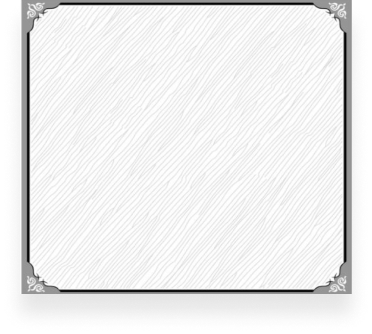
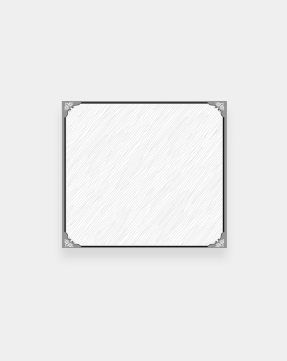
A few changes to the "Best Seller" section such as image size and responsive them

Changed region(s): [[0.0557, 0.0, 0.9477, 0.8982], [0.1951, 0.2695, 0.8084, 0.7186]]

diff --git a/index.html b/index.html
@@ -186,7 +186,7 @@
             <div class="col-xl-12 pt-3">
              <h6>شرایط فعلی تکنولوژی مورد نیاز و کاربردهای متنوع کاربردی می باشد</h6>
 
-             <p>کتابهای زیادی در شصت و سه درصد گذشته، حال و آینده شناخت فراوان جامعه و متخصصان را می طلبد تا با نرم افزارهاکتابهای زیادی در شصت و سه درصد گذشته، حال و آینده شناخت فراوان جامعه و متخصصان را می طلبد .</p>
+             <p class="pt-1">کتابهای زیادی در شصت و سه درصد گذشته، حال و آینده شناخت فراوان جامعه و متخصصان را می طلبد تا با نرم افزارهاکتابهای زیادی در شصت و سه درصد گذشته، حال و آینده شناخت فراوان جامعه و متخصصان را می طلبد .</p>
             </div>
           </div>
           <div class="col-xl-8">
@@ -197,10 +197,10 @@
 
         <!-------------------- product section here --------------------->
         <section class="d-flex flex-column justify-content-center my-5 product">
-          <div class="row">
-            <h2 class="d-flex justify-content-center">دسته بندی محصولات آذران پلاستیک</h2>
-            <h3 class="d-flex justify-content-center">دسته بندی محصولات آذران پلاستیک</h3>
-            <p class="d-flex justify-content-center">لورم ایپسوم متن ساختگی با تولید سادگی نامفهوم از صنعت چاپ و با استفاده از طراحان گرافیک است. چاپگرها و متون بلکه روزنامه و مجله</p>
+          <div class="row pt-5 justify-content-center">
+            <h2 class="d-flex justify-content-center pb-3">دسته بندی محصولات آذران پلاستیک</h2>
+            <h3 class="d-flex justify-content-center pb-2">دسته بندی محصولات آذران پلاستیک</h3>
+            <p class="d-flex w-50 text-center">لورم ایپسوم متن ساختگی با تولید سادگی نامفهوم از صنعت چاپ و با استفاده از طراحان گرافیک است. چاپگرها و متون بلکه روزنامه و مجله</p>
           </div>
 
           <div class="row py-5 bg2">
@@ -232,14 +232,14 @@
             </div>
             <div class="col-xl-4">
               
-              <h3 class="pt-5 pb-2">لورم ایپسوم متن ساختگی</h3>
+              <h3 class="pt-4 pb-3">لورم ایپسوم متن ساختگی</h3>
   
               <h6 class="pb-2">شرایط فعلی تکنولوژی مورد نیاز و کاربردهای متنوع کاربردی می باشد</h6>
 
-              <p>لورم ایپسوم متن ساختگی با تولید سادگی نامفهوم از صنعت چاپ و با استفاده از طراحان گرافیک است. چاپگرها و متون بلکه روزنامه و مجله در ستون و سطرآنچنان که لازم است و برای شرایط فعلی تکنولوژی مورد نیاز و کاربردهای متنوع با هدف بهبود ابزارهای کاربردی می باشد.
+              <p class="py-2">لورم ایپسوم متن ساختگی با تولید سادگی نامفهوم از صنعت چاپ و با استفاده از طراحان گرافیک است. چاپگرها و متون بلکه روزنامه و مجله در ستون و سطرآنچنان که لازم است و برای شرایط فعلی تکنولوژی مورد نیاز و کاربردهای متنوع با هدف بهبود ابزارهای کاربردی می باشد.
               بیشتری را برای طراحان رایانه ای علی الخصوص طراحان خلاقی و فرهنگ پیشرو در زبان فارسی ایجاد کرد.</p>
-              <button class="btn btn-outline-danger rounded-pill mx-1 sabtn-nav px-4 py-2">
-                <span class="d-inline px-2 color">اطلاعات بیشتر</span> 
+              <button class="btn btn-outline-danger rounded-pill mx-1 px-4 py-2">
+                <span class="d-inline px-2 information">اطلاعات بیشتر</span> 
               </button>
 
             </div>
@@ -251,39 +251,31 @@
         <!-------------------- Best-selling section here --------------------->
         <section class="d-flex flex-column justify-content-center my-5 container Best-selling">
 
-          <div class="row">
-            <h2 class="d-flex justify-content-center">محصولات پرفروش</h2>
-            <h3 class="d-flex justify-content-center">محصولات پرفروش</h3>
-            <p class="d-flex justify-content-center">لورم ایپسوم متن ساختگی با تولید سادگی نامفهوم از صنعت چاپ و با استفاده از طراحان گرافیک است. چاپگرها و متون بلکه روزنامه و مجله</p>
+          <div class="row justify-content-center">
+            <h2 class="d-flex justify-content-center pb-3">محصولات پرفروش</h2>
+            <h3 class="d-flex justify-content-center pb-2">محصولات پرفروش</h3>
+            <p class="d-flex w-50 text-center">لورم ایپسوم متن ساختگی با تولید سادگی نامفهوم از صنعت چاپ و با استفاده از طراحان گرافیک است. چاپگرها و متون بلکه روزنامه و مجله</p>
           </div>
           
-          <div class="row py-5">
-            <div class="col pic-best1">
-              <div class="p-3 bg-light">
-                <img class="img-fluid pb-5 pt-5 px-2" src="images/patern.png" alt="Best-selling">
-              </div>
-              <h6 class="pt-3">ایپسوم متن ساختگی با تولید |  DF-14416a</h6>
+          <div class="row py-5 g-5">
+            <div class="col-xl-3 col-md-6 col-sm-12 px-0">
+              <img class="img-fluid" src="images/patern.png" alt="Best-selling">
+              <h6 class="pt-3 d-flex justify-content-center">ایپسوم متن ساختگی با تولید |  DF-14416a</h6>
             </div>
 
-            <div class="col">
-              <div class="bg-light">
-                <img class="img-fluid" src="images/patern2.png" alt="Best-selling">
-              </div>
-              <h6 class="pt-3">ایپسوم متن ساختگی با تولید | DF-00226a</h6>
+            <div class="col-xl-3 col-md-6 col-sm-12 px-0">
+              <img class="img-fluid" src="images/patern2.png" alt="Best-selling">
+              <h6 class="pt-3 d-flex justify-content-center">ایپسوم متن ساختگی با تولید | DF-00226a</h6>
             </div>
 
-            <div class="col">
-              <div class="p-3 bg-light">
-                <img class="img-fluid pb-5 pt-5 px-2" src="images/patern3.png" alt="Best-selling">
-              </div>
-              <h6 class="pt-3">ایپسوم متن ساختگی با تولید |  DF-14416a</h6>
+            <div class="col-xl-3 col-md-6 col-sm-12 px-0">
+              <img class="img-fluid" src="images/patern3.png" alt="Best-selling">
+              <h6 class="pt-3 d-flex justify-content-center">ایپسوم متن ساختگی با تولید |  DF-14416a</h6>
             </div>
 
-            <div class="col">
-              <div class="p-3 bg-light pic-best4">
-                <img class="img-fluid pb-5 pt-5 px-2" src="images/patern4.png" alt="Best-selling">
-              </div>
-              <h6 class="pt-3">ایپسوم متن ساختگی با تولید |  DF-14416a</h6>
+            <div class="col-xl-3 col-md-6 col-sm-12 px-0">
+              <img class="img-fluid" src="images/patern4.png" alt="Best-selling">
+              <h6 class="pt-3 d-flex justify-content-center">ایپسوم متن ساختگی با تولید |  DF-14416a</h6>
             </div>
 
           </div>
@@ -361,17 +353,17 @@
 
       <!-------------------- article here --------------------->
       <div class="container d-flex flex-column my-5 article">
-          <div class="row pt-5">
+          <div class="row justify-content-center pt-5">
 
-            <h2 class="d-flex justify-content-center">مقالات</h2>
-            <h3 class="d-flex justify-content-center">مقالات آذران پلاستیک</h3>
-            <p class="d-flex justify-content-center">لورم ایپسوم متن ساختگی با تولید سادگی نامفهوم از صنعت چاپ و با استفاده از طراحان گرافیک است. چاپگرها و متون بلکه روزنامه و مجله</p>
+            <h2 class="d-flex justify-content-center pb-3">مقالات</h2>
+            <h3 class="d-flex justify-content-center pb-2">مقالات آذران پلاستیک</h3>
+            <p class="text-center w-50">لورم ایپسوم متن ساختگی با تولید سادگی نامفهوم از صنعت چاپ و با استفاده از طراحان گرافیک است. چاپگرها و متون بلکه روزنامه و مجله</p>
 
           </div>
           
           <div class="row pt-5">
 
-            <article class="col">
+            <article class="col-md-4 col-sm-12">
               
               <img class="img-fluid" src="images/article1.png" alt="article">
               <p class="pt-4">دسته بندی  |   اسفند ۱۴۰۱</p>
@@ -379,7 +371,7 @@
 
             </article>
 
-            <article class="col">
+            <article class="col-md-4 col-sm-12">
               
               <img class="img-fluid" src="images/article2.png" alt="article">
               <p  class="pt-4">دسته بندی  |   اسفند ۱۴۰۱</p>
@@ -387,7 +379,7 @@
 
             </article>
 
-            <article class="col">
+            <article class="col-md-4 col-sm-12">
 
               <img class="img-fluid" src="images/article3.png" alt="article">
               <p  class="pt-4">دسته بندی  |   اسفند ۱۴۰۱</p>
@@ -400,7 +392,7 @@
       <!--------------------end of article -------------------->
     </main>
     
-    <!---------------- place footer here-------------->
+    <!---------------- place footer here---------------------------------->
     <footer class="footer-dark">
       <!-- Section: Social media -->
       <div class="social-media">

diff --git a/css/style.css b/css/style.css
@@ -113,9 +113,10 @@ h2{
   text-align: right;
   color: #ca1119;
 }
+
 h6{
-  font-size: 14px;
-  font-weight: 500;
+  font-size: 12px;
+  font-weight: 700;
   font-stretch: normal;
   font-style: normal;
   line-height: normal;
@@ -146,9 +147,7 @@ h6{
   display: inline-block;
   
 }
-.categorization span{
-  position: relative;
-}
+
 .product p{
   color: #757575;
   font-size: 14px;
@@ -163,6 +162,9 @@ h6{
   width: 61px;
   height: 63px;
 }
+.information{
+  font-size: 14px;
+}
 /************** end of product codes***************/
 
 /************** Best-selling codes***************/
@@ -175,14 +177,6 @@ h6{
   line-height: normal;
   letter-spacing: 0.28px;
   text-align: right;
-}
-
-.pic-best1 {
-  padding-right: 0;
-}
-.pic-best4 {
-  padding-left: 0;
-
 }
 
 .Best-selling h6{
